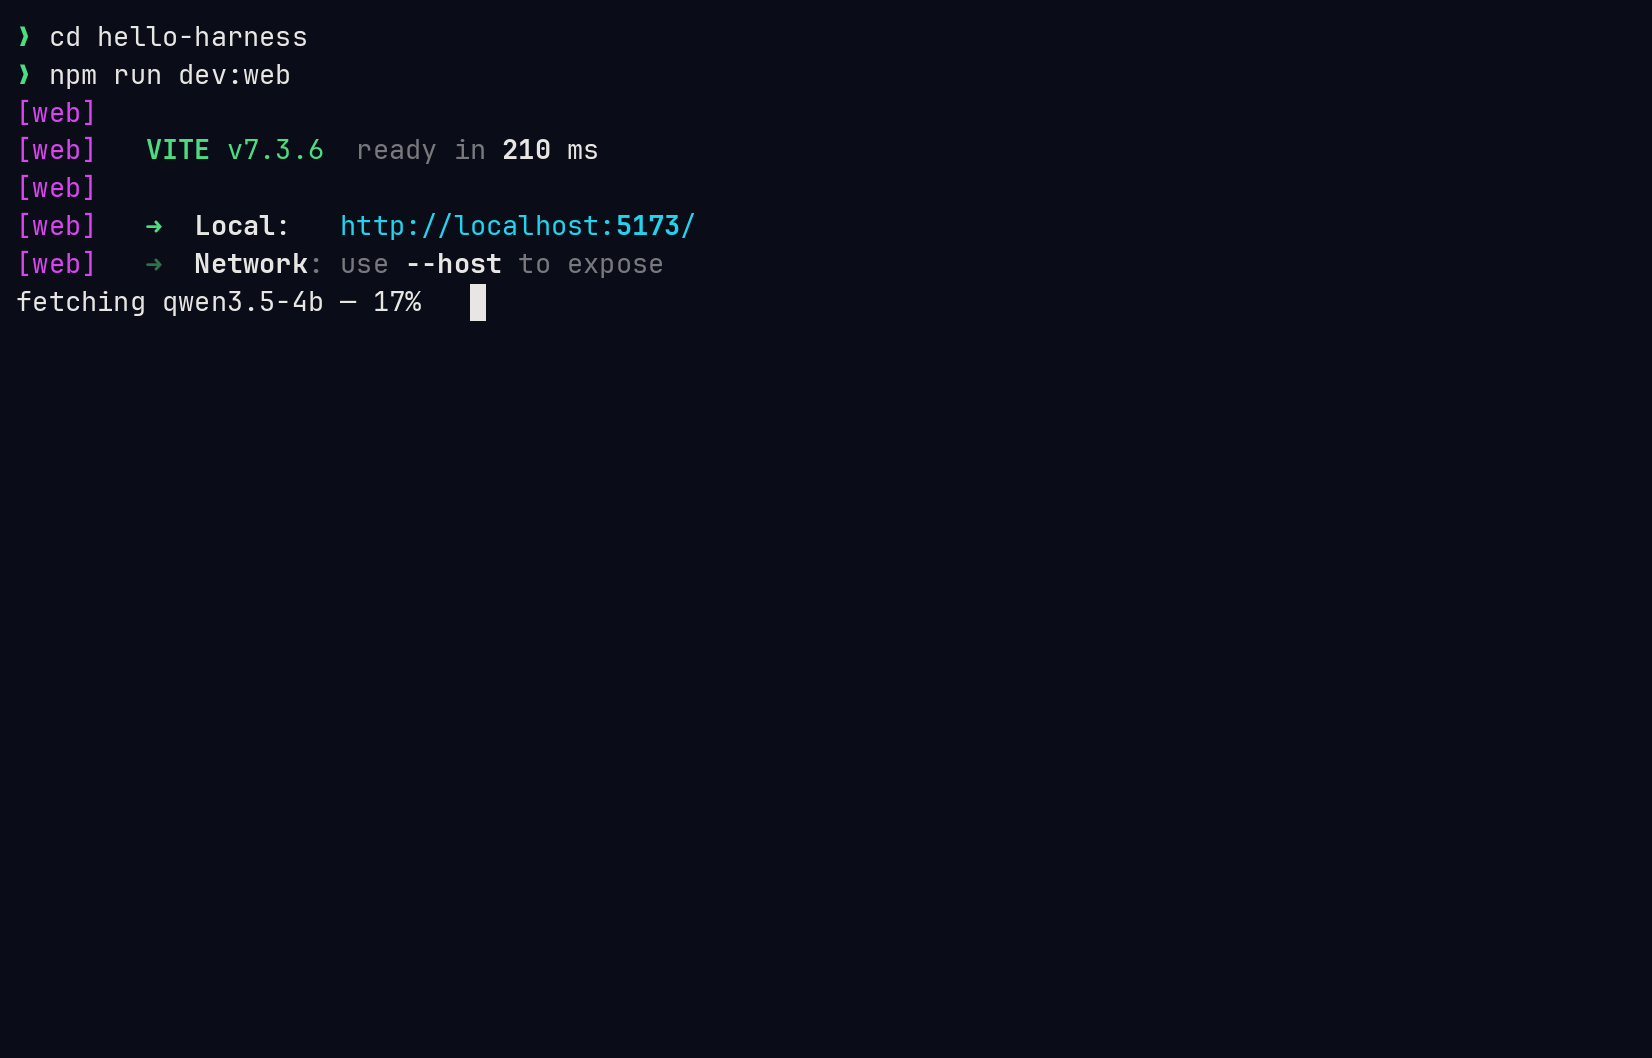
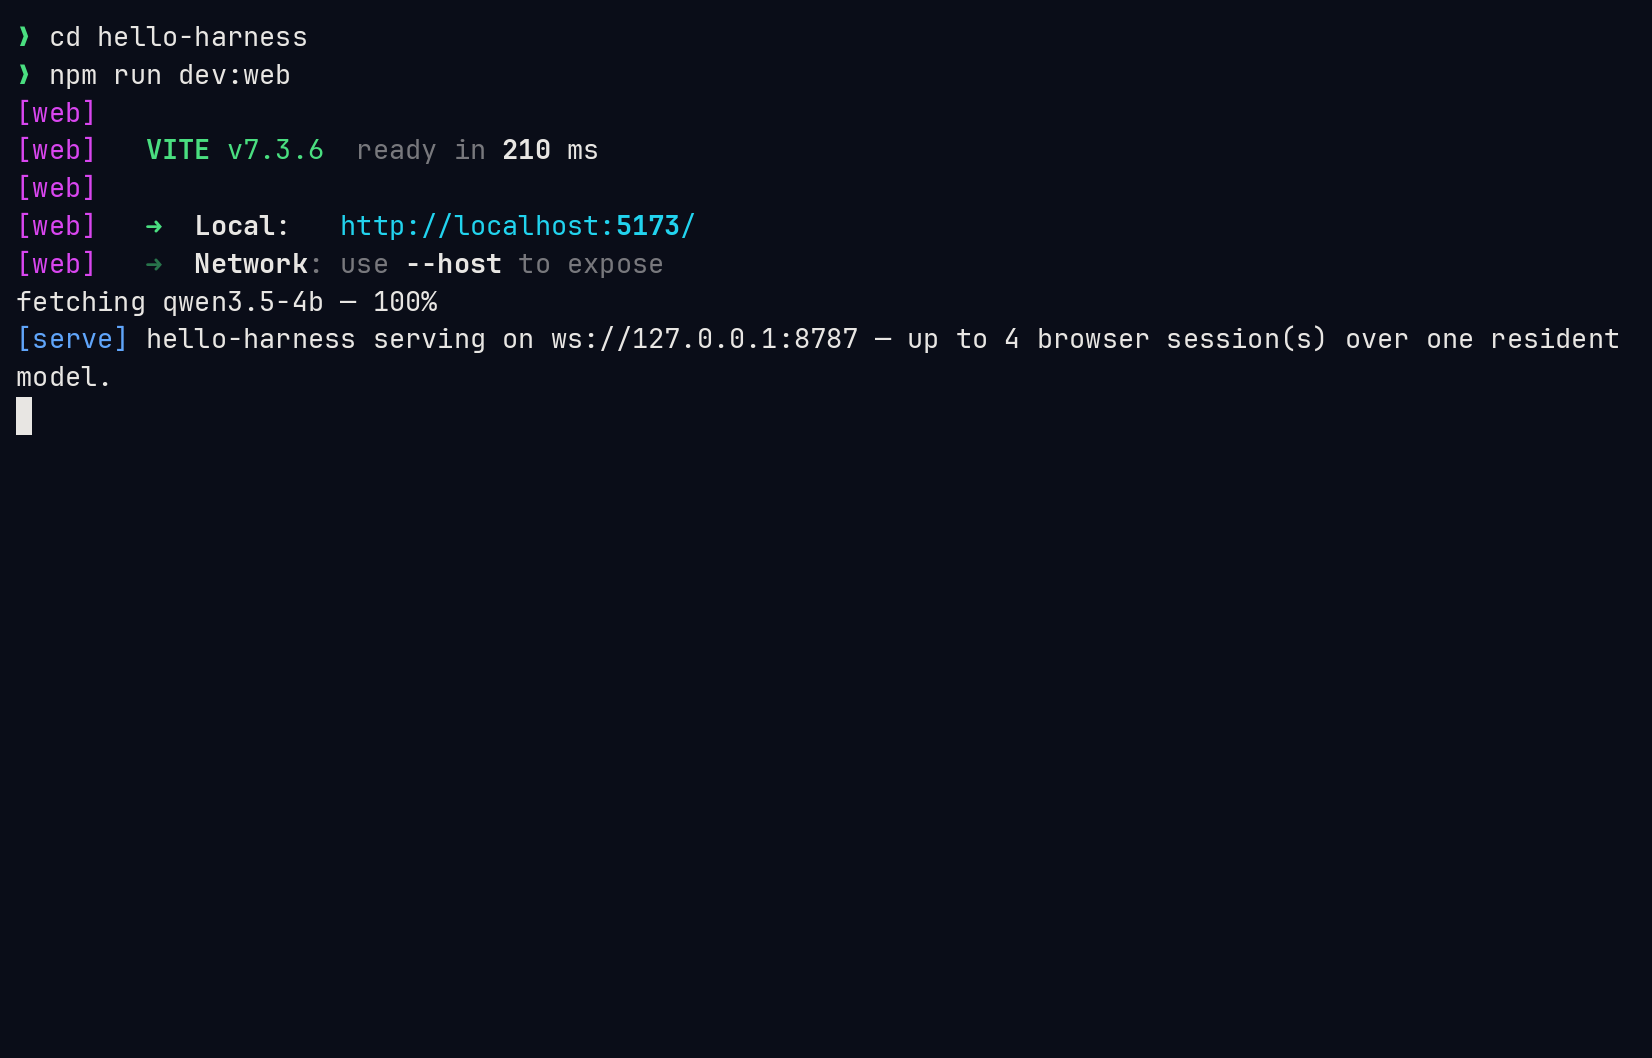
docs: dev:web shot runs to the serve line
The first cut of this GIF was a 35 s prefix of the recording and stopped at
"fetching qwen3.5-4b — 17%", so the reader never saw the host actually come
up. Re-cut from the same take: the fetch counter is thinned to its genuine
0/10/.../100% ticks and the GIF now ends on

  [serve] hello-harness serving on ws://127.0.0.1:8787 — up to 4 browser
  session(s) over one resident model.

Still timing-only. 731 of the 742 progress events are dropped and 11 kept;
each is a pure carriage-return rewrite of the same line, so nothing is left
torn and no text is edited or invented. Everything before the first tick and
after 100% is kept verbatim in order. Note this compresses the apparent fetch
duration: the real fetch took about 153 s.

48 frames, 14.7 s, 77 KB. Still 07 re-cut to the final frame.

Changed region(s): [[0.0, 0.2495, 0.5248, 0.4055], [0.5557, 0.3119, 0.9879, 0.3431]]

diff --git a/build-your-first-harness.html b/build-your-first-harness.html
@@ -116,7 +116,7 @@ description: Use lloyal-ai to create an application, begin a Session, inspect it
 <div class="code-frame"><div class="code-label">TERMINAL</div><pre><code><span class="nb">cd</span><span class="w"> </span>hello-harness
 npm<span class="w"> </span>run<span class="w"> </span>dev:web
 </code></pre></div><figure class="flow-shot">
-<img alt="lloyal-ai hello-harness running npm run dev:web: the Vite browser client is up and the resident-model host is fetching the model" src="/assets/guides/build-your-first-harness-dev-web.gif"/>
+<img alt="lloyal-ai hello-harness running npm run dev:web: Vite serves the browser client on localhost:5173, the model fetch reaches 100 per cent, and the resident-model host comes up on ws://127.0.0.1:8787" src="/assets/guides/build-your-first-harness-dev-web.gif"/>
 <figcaption class="flow-caption">The web target boots the resident-model host and Vite browser client together. On first run, the host fetches and digest-verifies the model.</figcaption>
 </figure>
 <p>Open the local address printed by Vite: <code>http://localhost:5173/</code>. The browser is a surface over the host; the host owns the resident model and runs the same <code>harness.ts</code> application contract.</p>
